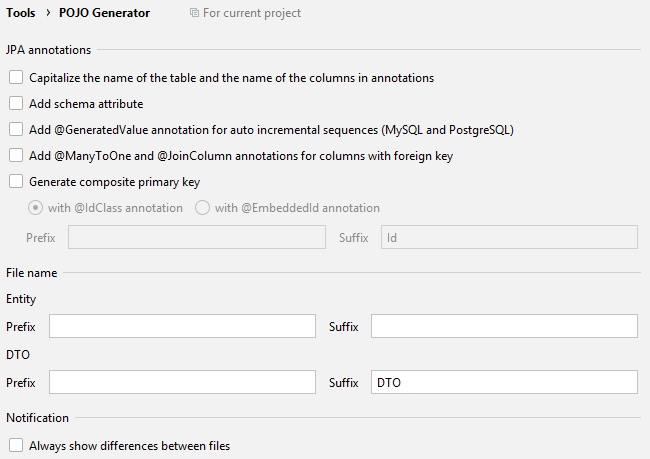
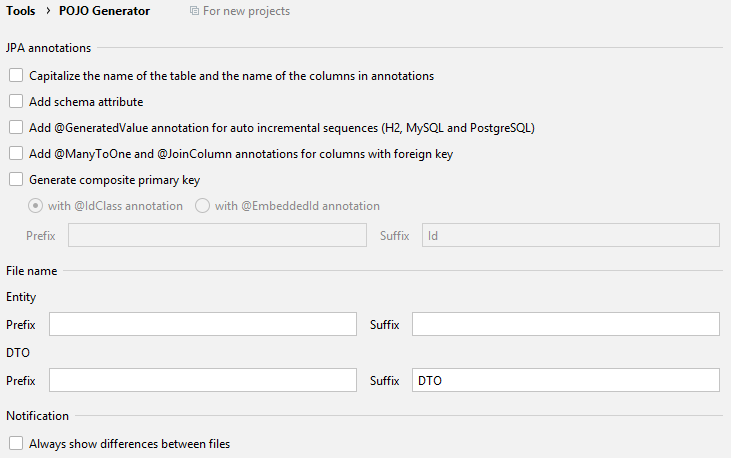
[GitHub] #18: POJO generator does not support H2 embedded database

diff --git a/README.md b/README.md
@@ -21,7 +21,7 @@ Example of the User DTO class:
 ![Settings](pojo-generator-install/src/site/resources/images/settings.png "Settings")
 
 1. You can capitalize table name and column name in annotation
-2. You can add `@GeneratedValue` annotation over column which have auto increment sequence (MySQL and PostgreSQL)
+2. You can add `@GeneratedValue` annotation over column which have auto increment sequence (H2, MySQL and PostgreSQL)
 3. You can add `@ManyToOne` and `@JoinColumn` annotations on columns with foreign key
 4. You can generate composite primary key with `@IdClass` or `@EmbeddedId` annotations
 
